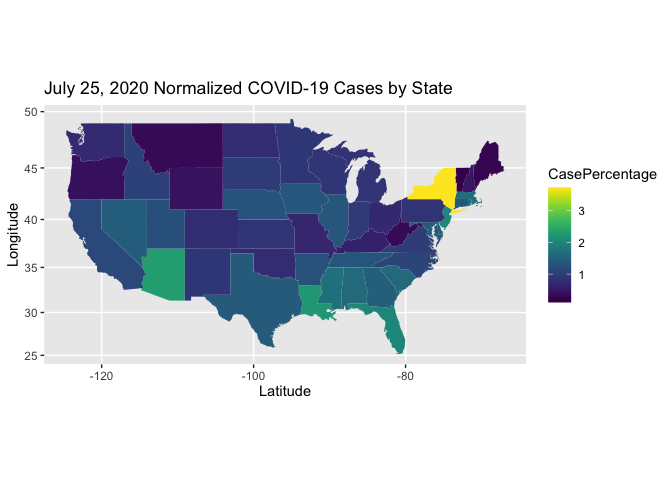
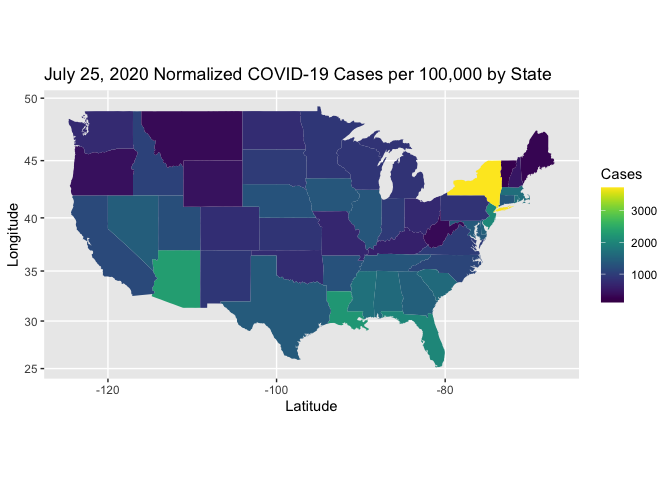
Updated covid report

diff --git a/challenges/c06-covid19-assignment.md b/challenges/c06-covid19-assignment.md
@@ -636,7 +636,7 @@ df_states_2020_07_25 <-
   mutate(region = tolower(state)) %>%
   group_by(region) %>%
   summarize(cases = sum(cases, na.rm = TRUE), deaths = sum(deaths, na.rm = TRUE), pop = sum(population, na.rm = TRUE)) %>%
-  mutate(CasePercentage = cases/pop*100, DeathPercentage = deaths/pop*100)
+  mutate(Cases = cases/pop*100000, Deaths = deaths/pop*100000)
 ```
 
     ## `summarise()` ungrouping output (override with `.groups` argument)
@@ -646,18 +646,18 @@ df_states_2020_07_25
 ```
 
     ## # A tibble: 55 x 6
-    ##    region                cases deaths      pop CasePercentage DeathPercentage
-    ##    <chr>                 <dbl>  <dbl>    <dbl>          <dbl>           <dbl>
-    ##  1 alabama               78130   1456  4864680          1.61          0.0299 
-    ##  2 alaska                 2866     18   734634          0.390         0.00245
-    ##  3 arizona              160055   3288  6946685          2.30          0.0473 
-    ##  4 arkansas              37981    399  2990671          1.27          0.0133 
-    ##  5 california           453327   8428 39139822          1.16          0.0215 
-    ##  6 colorado              43847   1795  5529692          0.793         0.0325 
-    ##  7 connecticut           48776   4413  3581504          1.36          0.123  
-    ##  8 delaware              14175    579   949495          1.49          0.0610 
-    ##  9 district of columbia  11717    581   684498          1.71          0.0849 
-    ## 10 florida              414503   5776 20598139          2.01          0.0280 
+    ##    region                cases deaths      pop Cases Deaths
+    ##    <chr>                 <dbl>  <dbl>    <dbl> <dbl>  <dbl>
+    ##  1 alabama               78130   1456  4864680 1606.  29.9 
+    ##  2 alaska                 2866     18   734634  390.   2.45
+    ##  3 arizona              160055   3288  6946685 2304.  47.3 
+    ##  4 arkansas              37981    399  2990671 1270.  13.3 
+    ##  5 california           453327   8428 39139822 1158.  21.5 
+    ##  6 colorado              43847   1795  5529692  793.  32.5 
+    ##  7 connecticut           48776   4413  3581504 1362. 123.  
+    ##  8 delaware              14175    579   949495 1493.  61.0 
+    ##  9 district of columbia  11717    581   684498 1712.  84.9 
+    ## 10 florida              414503   5776 20598139 2012.  28.0 
     ## # … with 45 more rows
 
 ``` r
@@ -685,11 +685,11 @@ library(viridis)
 ``` r
 df_states_2020_07_25 %>%
   ggplot() +
-  geom_map(aes(map_id = region, fill = CasePercentage), map = us) +
+  geom_map(aes(map_id = region, fill = Cases), map = us) +
   expand_limits(x = us$long, y = us$lat) +
   coord_map() +
   labs(
-    title = "July 25, 2020 Normalized COVID-19 Cases by State",
+    title = "July 25, 2020 Normalized COVID-19 Cases per 100,000 by State",
     x = "Latitude",
     y = "Longitude"
   ) +
@@ -701,11 +701,11 @@ df_states_2020_07_25 %>%
 ``` r
 df_states_2020_07_25 %>%
   ggplot() +
-  geom_map(aes(map_id = region, fill = DeathPercentage), map = us) +
+  geom_map(aes(map_id = region, fill = Deaths), map = us) +
   expand_limits(x = us$long, y = us$lat) +
   coord_map() +
   labs(
-    title = "July 25, 2020 Normalized COVID-19 Deaths by State",
+    title = "July 25, 2020 Normalized COVID-19 Deaths per 100,000 by State",
     x = "Latitude",
     y = "Longitude"
   ) +
@@ -713,6 +713,15 @@ df_states_2020_07_25 %>%
 ```
 
 ![](c06-covid19-assignment_files/figure-gfm/death_map_7_25-1.png)<!-- -->
+
+**Observations**:
+
+  - New York has the highest case and death counts per 100,000 people.
+    New Jersey and Massachusetts are also higher than most.
+  - The states with the highest case counts per 100,000 people are not
+    the same states with the highest death counts per 100,000 people,
+    which indicates to me that they might have higher death counts in
+    the future (as death counts can lag case counts by weeks).
 
 # Notes
 
